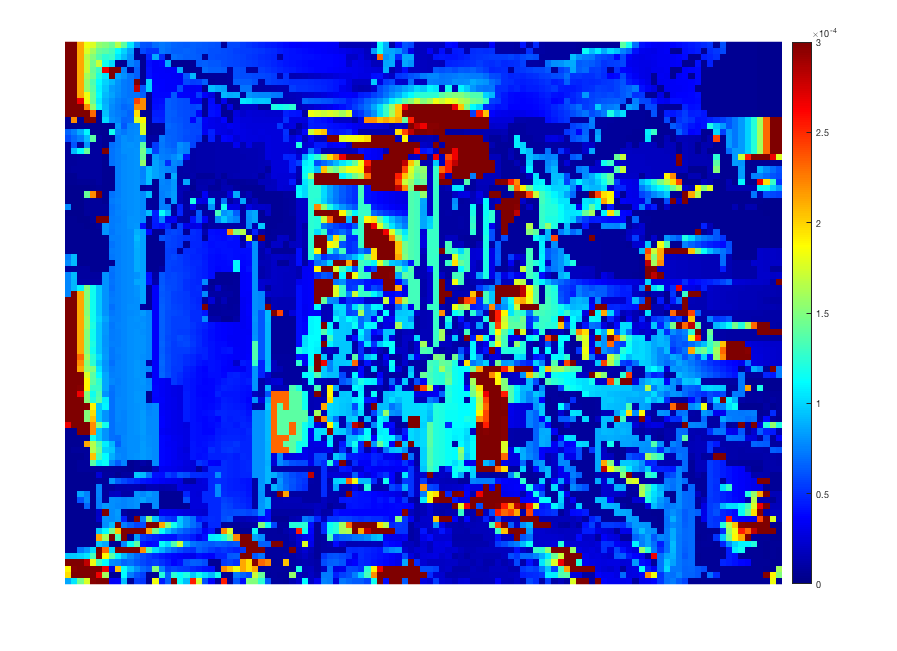
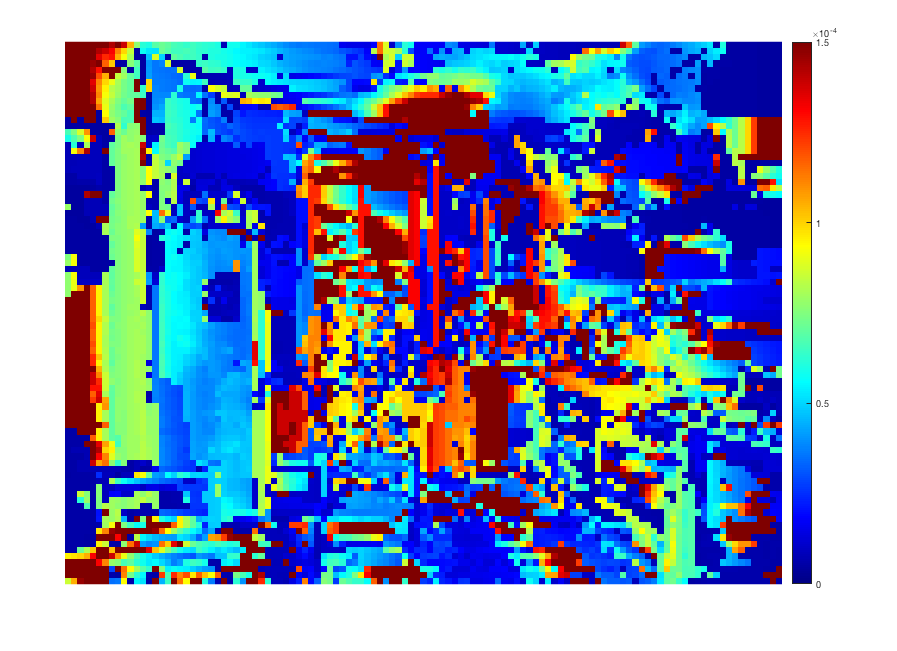
Done with main text, adding appendix, and pictures.

diff --git a/main.tex b/main.tex
@@ -420,73 +420,60 @@ As such, for FD1 and FD2, only horizontal lines were searched, as the camera was
     \end{subfigure}
     ~
     \begin{subfigure}{0.45\linewidth}
-      \includegraphics[width=\textwidth]{pic/q2_2_cd3_dis}
+      \includegraphics[width=\textwidth]{pic/q2_2_cd2_dis}
       \caption{Horizontal lines.}
       \label{fig:q2_2_cd3_tkb}
     \end{subfigure}
 
 	\caption{Comparison of disparity calculation along epipolar lines and along horizontal lines for Tsukuba data. }
-  \label{fig:matchBC}
+  \label{fig:q2_2_cd_tkb}
 \end{figure}
 
 \begin{figure}[!ht]
   \centering
-  \includegraphics[width=\textwidth]{pic/q2_2_cd4_dis}
-	\caption{Disparity map for FD1 using FD2, with 10x10 window size. Using horizontal lines.}
+  \includegraphics[width=\linewidth]{pic/q2_2_cd4_dis}
+  \caption{Disparity map for FD1 using FD2, with 10x10 window size. Using horizontal lines.}
   \label{fig:depth10}
 \end{figure}
 
 \subsubsection{Depth}
-To convert from disparity to depth ($z$), the formula $z = \frac{fb}{d}$, where $f$ is the focal length, $b$ is the baseline, and $d$ is the disparity. The absolute value of the disparity was taken as there cannot be negative distance in this case.
+To convert from disparity to depth ($z$), the formula $z = \frac{fb}{d}$, where $f$ is the focal length, $b$ is the baseline, and $d$ is the disparity. The absolute value of the disparity was taken as there cannot be negative distance in this case. Figure \ref{fig:depth} shows this. The window size was chosen because any larger, and the blockiness of the image made it impossible to conclude anything useful. The results are as expected, with the red portions (a higher depth) being mostly in the centre, around the window and the far side of the kitchen. The left and right parts of the image should be closer, and there is more blue, but there are outliers, like a large patch of red on the left, and light green as well. The fridge is surprisingly blue. It seems that the areas of white wall in the original image might be responsible. Upon closer inspection, the picture does have a lot of uniform white areas, which may have caused issues with feature recognition in earlier segments as well. However, this is again the result of the image, rather than the method, as evidenced by the success of the identical code with the Tsukuba data. 
 
 \begin{figure}[!ht]
   \centering
-  \includegraphics[width=\textwidth]{pic/q2_2_cd4_dis}
+  \includegraphics[width=\linewidth]{pic/q2_2_cd4_depth}
 	\caption{Depth map for FD1 using FD2, with 10x10 window size. $f = 24\text{mm}$, $b = 20\text{cm}$.}
-  \label{fig:depth10}
+  \label{fig:depth}
 \end{figure}
 
 \subsubsection{Focal Length and Noise}
 
-Following the calculation of epipoles and epipolar lines, the same pair of images were used to calculate both a disparity map and depth map. These are displayed in Figure \ref{fig:depth10}. The depth maps were both then calculated again, first by changing the focal length by 2mm to investigate the effect of change in depth, and by adding Gaussian noise to investigate the effect of noise on the maps. These results are shown in Figure \ref{fig:depthChanges}.
-
-% TODO discuss results from the generated images
-% TODO discuss the difference between epipolar and stereoscopic images
-% Meng, do you want to handle this as well?
-
+The depth map was calculated again, with $f = 22\text{mm}$, then with $f = 26\text{mm}$ and finally with $f = 24\text{mm}$ again, but adding Gaussian noise to the disparity map. Increasing the focal length should make everything further away, and reducing it vice-versa. This is visible as a slight shift to red in Figure \ref{fig:q2_2_e_focal1}, and more blue in Figure \ref{fig:q2_2_e_focal2}. Adding noise shown in Figure \ref{fig:q2_2_e_gaussian} appears to have no effect, whether at small or large amounts, as it either has no visible effort, or simply makes the depth map filled with artefacts. .
 
 \begin{figure}[!ht]
   \captionsetup[subfigure]{position=b}
   \centering
     \begin{subfigure}{0.45\linewidth}
-      \includegraphics[width=\textwidth]{pic/q2_2_cd3_dis}
-      \caption{Disparity map}
+      \includegraphics[width=\textwidth]{pic/q2_2_e_focal1}
+      \caption{$f = 26\text{mm}$}
+      \label{fig:q2_2_e_focal1}
     \end{subfigure}
     ~
     \begin{subfigure}{0.45\linewidth}
-      \includegraphics[width=\textwidth]{pic/q2_2_cd3_depth10}
-      \caption{Depth map}
+      \includegraphics[width=\textwidth]{pic/q2_2_e_focal2}
+      \caption{$f = 22\text{mm}$}
+      \label{fig:q2_2_e_focal2}
     \end{subfigure}
 
-	\caption{Depth and Disparity maps from FD1 and FD2 images using 10x10 window size and depth predicted by epipolar lines}
-  \label{fig:depth10}
+    \caption{Depth map for FD1 using FD2, with 10x10 window size. $f = 24\text{mm}$, $b = 20\text{cm}$.}
+  \label{fig:q2_2_e_focal}
 \end{figure}
 
 \begin{figure}[!ht]
-  \captionsetup[subfigure]{position=b}
   \centering
-    \begin{subfigure}{0.45\linewidth}
-      \includegraphics[width=\textwidth]{pic/q2_2_e_focal2}
-      \caption{Depth map with 2mm increase in focal length}
-    \end{subfigure}
-    ~
-    \begin{subfigure}{0.45\linewidth}
-      \includegraphics[width=\textwidth]{pic/q2_2_e_gaussian}
-      \caption{Depth map with image and added Gaussian noise}
-    \end{subfigure}
-
-  \caption{Depth maps generated using 10x10 window size, depth predicted by epipolar lines, and changes to calculation method}
-  \label{fig:depthChanges}
+  \includegraphics[width=\linewidth]{pic/q2_2_e_gaussian}
+	\caption{Depth map for FD1 using FD2, with $\sigma = 16$, capped at $\pm 50$.}
+  \label{fig:q2_2_e_gaussian}
 \end{figure}
 
 

diff --git a/src/q2_2_e.m b/src/q2_2_e.m
@@ -56,8 +56,7 @@ print([outputpath, 'pic/q2_2_e_focal2'],'-dpng','-r0');
 
 %% Depth, Gaussian noise added to Disparity. Zero Mean,
 % No more than 2 pixels... since most lies within 3 std of mean...
-% Standard deviation should be 2/3, let's say 0.5
-% Since Z = (X - mu)/sigma, then X = sigma * Z. (mu = 0)
+% Standard deviation should be 2/3. Cap at max 2 for values. 
 
 figure;
 
@@ -65,7 +64,11 @@ baseline = 20e-2;
 focallength = 24e-3;
 
 % Add noise
-disparityXNoise = disparityX + randn(size(disparityX)) * 15;
+themax = 50;
+noise = randn(size(disparityX)) * (themax/3);
+noise(noise > themax) = themax;
+noise(noise < -themax) = -themax;
+disparityXNoise = disparityX + noise;
 
 %
 close all;
